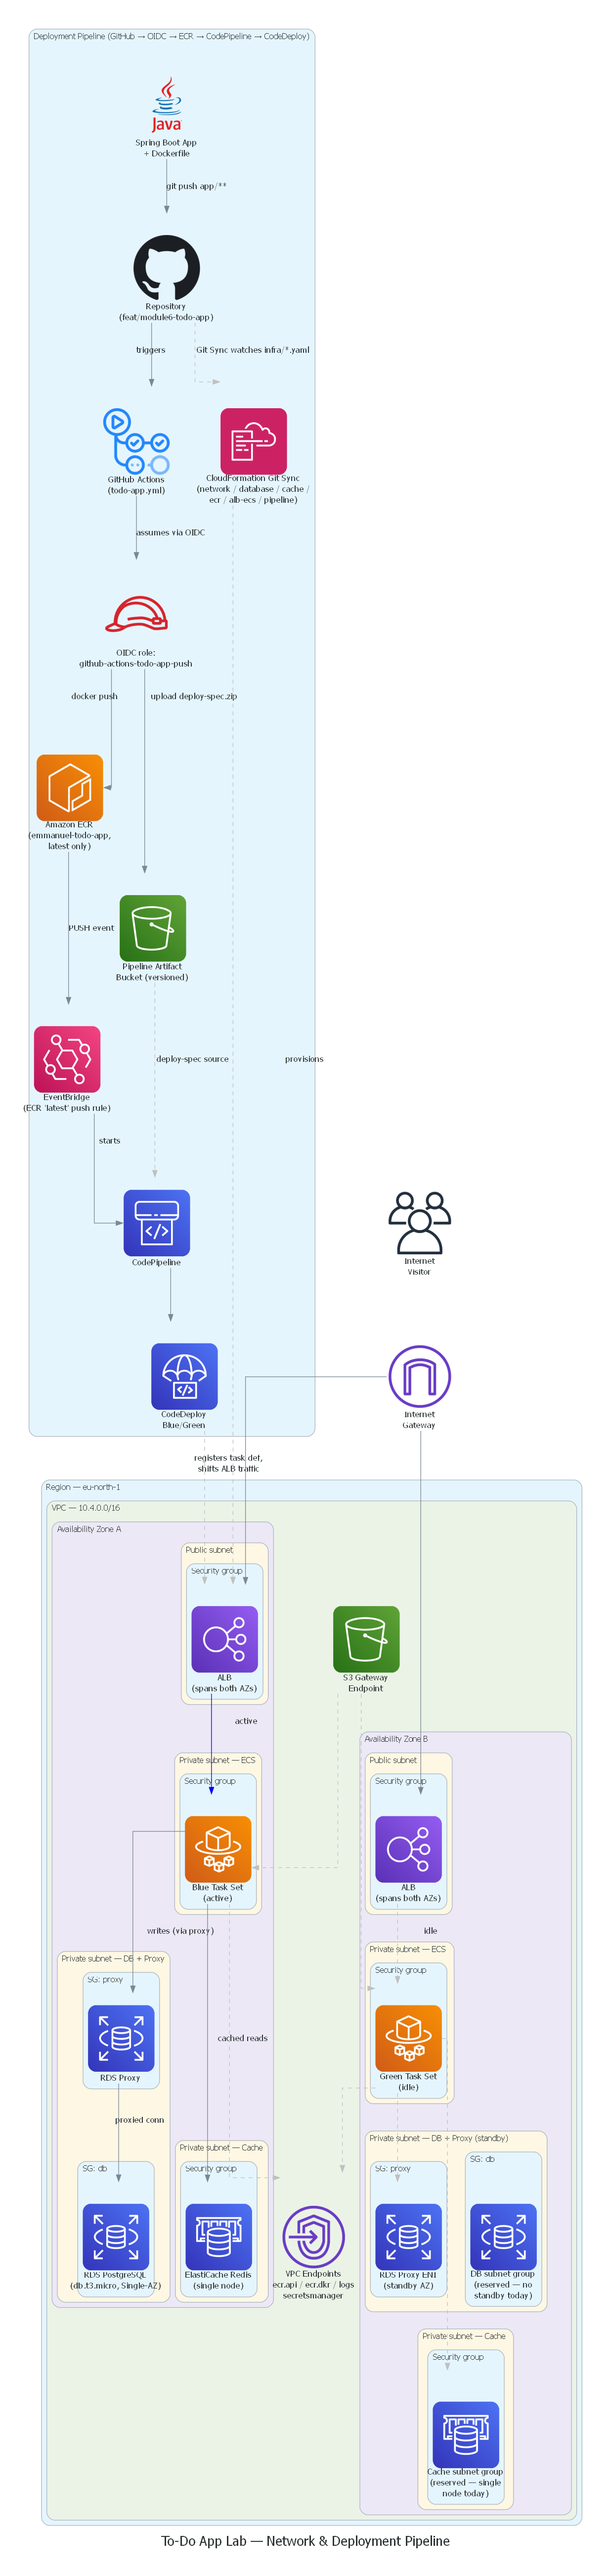
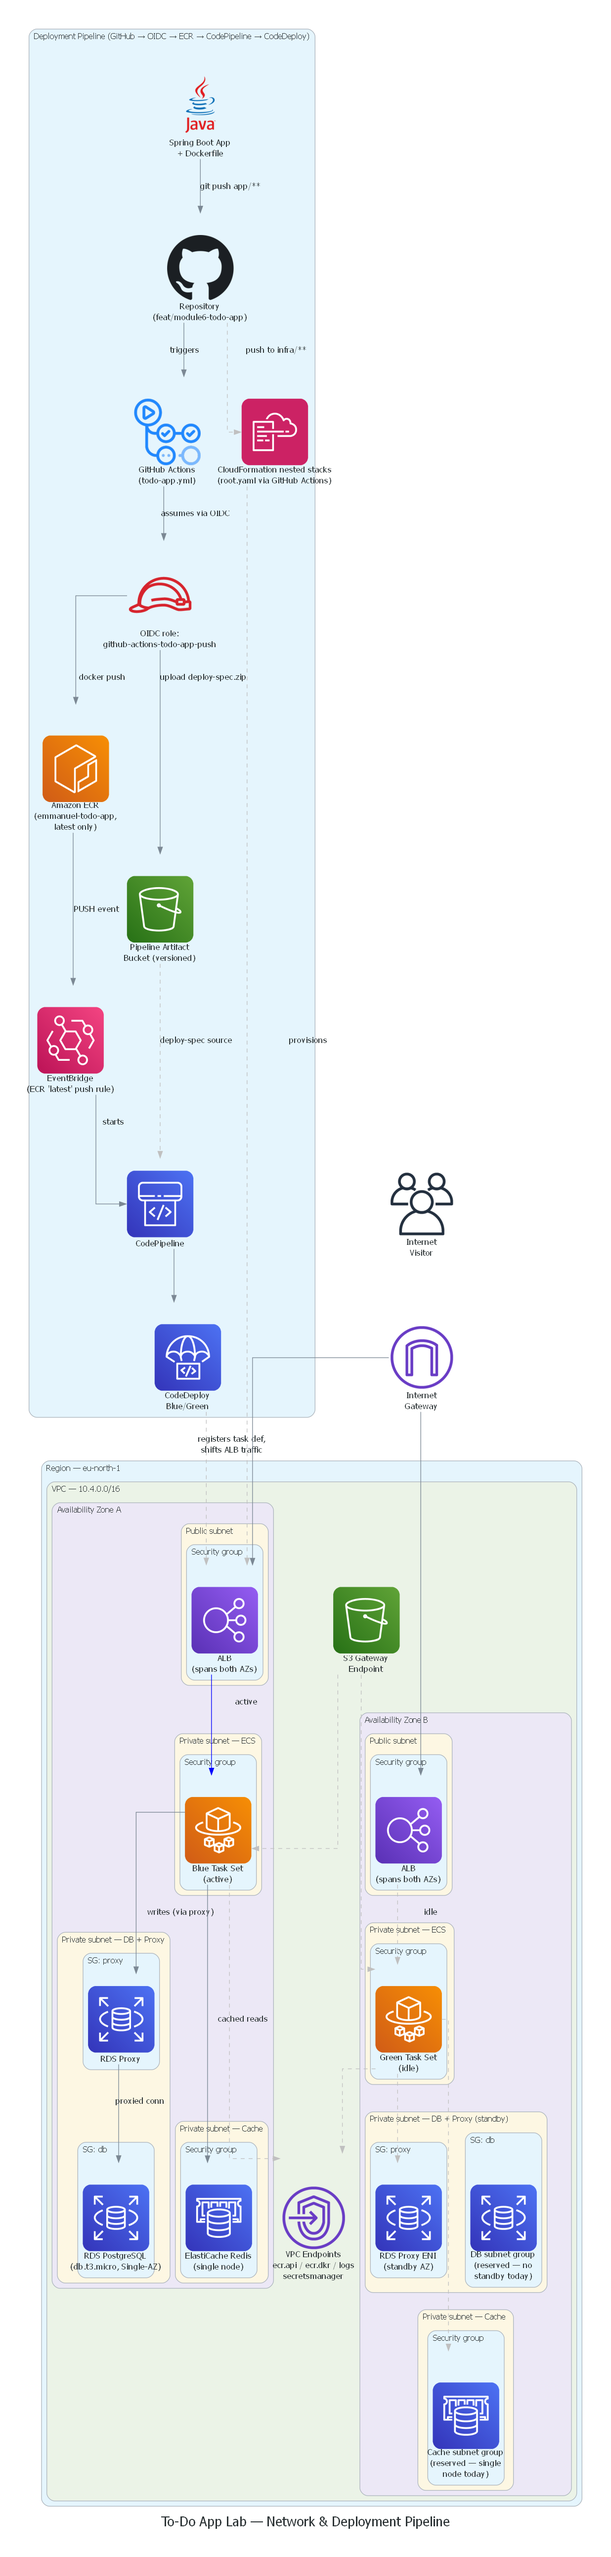
fix: update todo-app diagram's stale CloudFormation Git Sync label
The deployment-pipeline section still described the pre-migration
CloudFormation Git Sync setup (network / database / cache / ecr /
alb-ecs / pipeline) after the lab was converted to a nested-stack
root.yaml architecture. Updates both network-architecture.drawio and
generate_diagram.py to say "CloudFormation nested stacks (root.yaml
via GitHub Actions)", matching the photo-uploader lab's diagram.

diff --git a/labs/aws-cloud-and-ai-upskilling/module6/todo-app/infra/diagram/generate_diagram.py b/labs/aws-cloud-and-ai-upskilling/module6/todo-app/infra/diagram/generate_diagram.py
@@ -48,7 +48,7 @@ with Diagram(
         eb = Eventbridge("EventBridge\n(ECR 'latest' push rule)")
         pipeline = Codepipeline("CodePipeline")
         deploy = Codedeploy("CodeDeploy\nBlue/Green")
-        cfn = Cloudformation("CloudFormation Git Sync\n(network / database / cache /\necr / alb-ecs / pipeline)")
+        cfn = Cloudformation("CloudFormation nested stacks\n(root.yaml via GitHub Actions)")
 
         code >> Edge(label="git push app/**") >> repo
         repo >> Edge(label="triggers") >> actions
@@ -59,7 +59,7 @@ with Diagram(
         eb >> Edge(label="starts") >> pipeline
         s3_artifacts >> Edge(label="deploy-spec source", style="dashed", color="gray") >> pipeline
         pipeline >> deploy
-        repo >> Edge(label="Git Sync watches infra/*.yaml", style="dashed", color="gray") >> cfn
+        repo >> Edge(label="push to infra/**", style="dashed", color="gray") >> cfn
 
     user = Users("Internet\nVisitor")
     igw = InternetGateway("Internet\nGateway")
